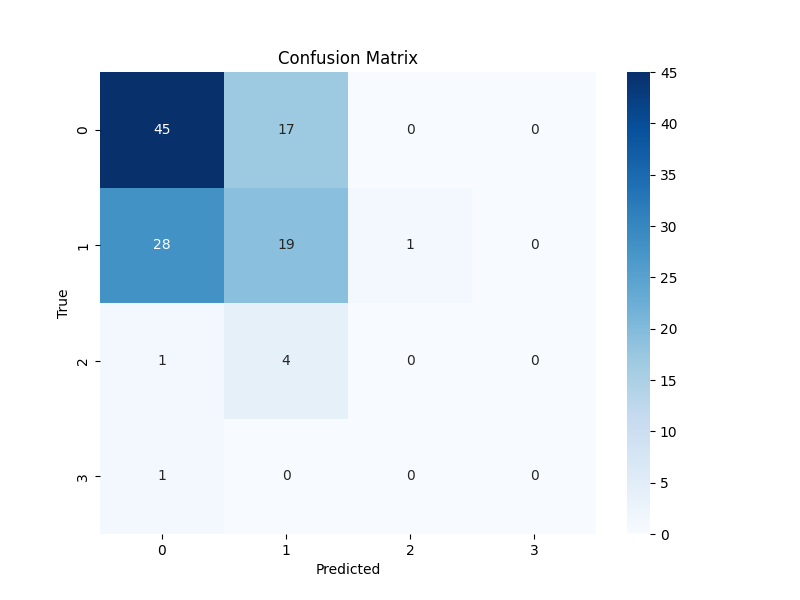
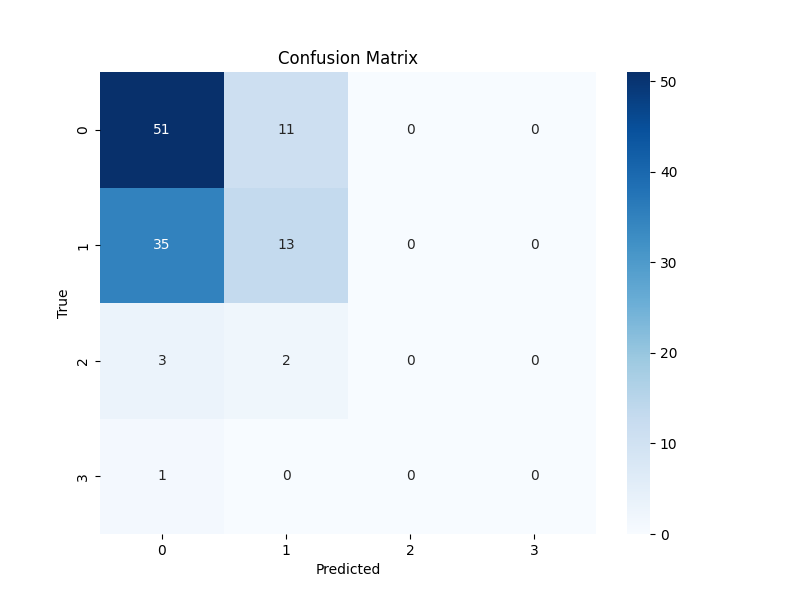
results

diff --git a/src/models/abstract_model.py b/src/models/abstract_model.py
@@ -3,24 +3,31 @@ import numpy as np
 import cv2
 from keras.optimizers import Adam
 from keras.utils import to_categorical
+from src.data_handler.class_weights import class_weights
 
 NUM_OF_CLASSES = 4
 
 
 class Model:
 
-    def train_model(self, train_data, train_labels: List):
+    def train_model(self, train_data, train_labels: List, database_name: str = "NULL"):
         self.model.compile(loss='categorical_crossentropy',
                            optimizer=Adam(learning_rate=0.001),
                            metrics=['accuracy'])
 
         fittable_labels = to_categorical(train_labels, num_classes=NUM_OF_CLASSES)
 
+        weights = None
+        if database_name != "NULL":
+            weights = class_weights[database_name]
+        else:
+            print("Invalid database name was sent to train")
+
         print("Epochs excluding base layers...")
         self.model.fit(x=train_data, y=fittable_labels,
-                       # epochs=30,
                        epochs=15,
-                       batch_size=32)
+                       batch_size=32,
+                       class_weight=weights)
 
         for layer in self.model.layers:
             layer.trainable = True
@@ -28,7 +35,8 @@ class Model:
         print("Epochs including base layers...")
         self.model.fit(x=train_data, y=fittable_labels,
                        epochs=30,
-                       batch_size=32)
+                       batch_size=32,
+                       class_weight=weights)
 
     def patch_evaluation(self, patches):
         probabilities = self.model.predict(patches)  # TODO: fix sometimes patches is an empty sequence

diff --git a/src/main.py b/src/main.py
@@ -19,14 +19,14 @@ if __name__ == "__main__":
     run_all_configs()
 
     # # Construct engine
-    # # main_engine = construct_HHD_engine(
-    # #     base_dir=Path.cwd() / DATA / HHD,
-    # #     image_shape=(400, 400, 1)
-    # # )
-    # main_engine = construct_KHATT_engine(
-    #     base_dir=Path.cwd() / DATA / KHATT,
-    #     image_shape=(200, 200, 1)
+    # main_engine = construct_HHD_engine(
+    #     base_dir=Path.cwd() / DATA / HHD,
+    #     image_shape=(400, 400, 1)
     # )
+    # # main_engine = construct_KHATT_engine(
+    # #     base_dir=Path.cwd() / DATA / KHATT,
+    # #     image_shape=(200, 200, 1)
+    # # )
     #
     # # Setting engine model
     # main_engine.set_model(model_names.ConvNeXtXLarge)

diff --git a/src/engine.py b/src/engine.py
@@ -115,7 +115,7 @@ class Engine:
 
     def train_model(self):
         print("Training model...")
-        self.model.train_model(self.train_images, self.train_labels)
+        self.model.train_model(self.train_images, self.train_labels, self.data_name)
 
     def most_common_number(self, number_list):
         number_counts = Counter(number_list)

diff --git a/src/data_handler/class_weights.py b/src/data_handler/class_weights.py
@@ -1,0 +1,19 @@
+
+HDD_weights = {
+    0: 413 / 882,
+    1: 319 / 882,
+    2: 137 / 882,
+    3: 13 / 882
+}
+
+KHATT_weights = {
+    0: 126 / 1000,
+    1: 644 / 1000,
+    2: 213 / 1000,
+    3: 17 / 1000
+}
+
+class_weights = {
+    'HHD': HDD_weights,
+    'KHATT': KHATT_weights
+}
